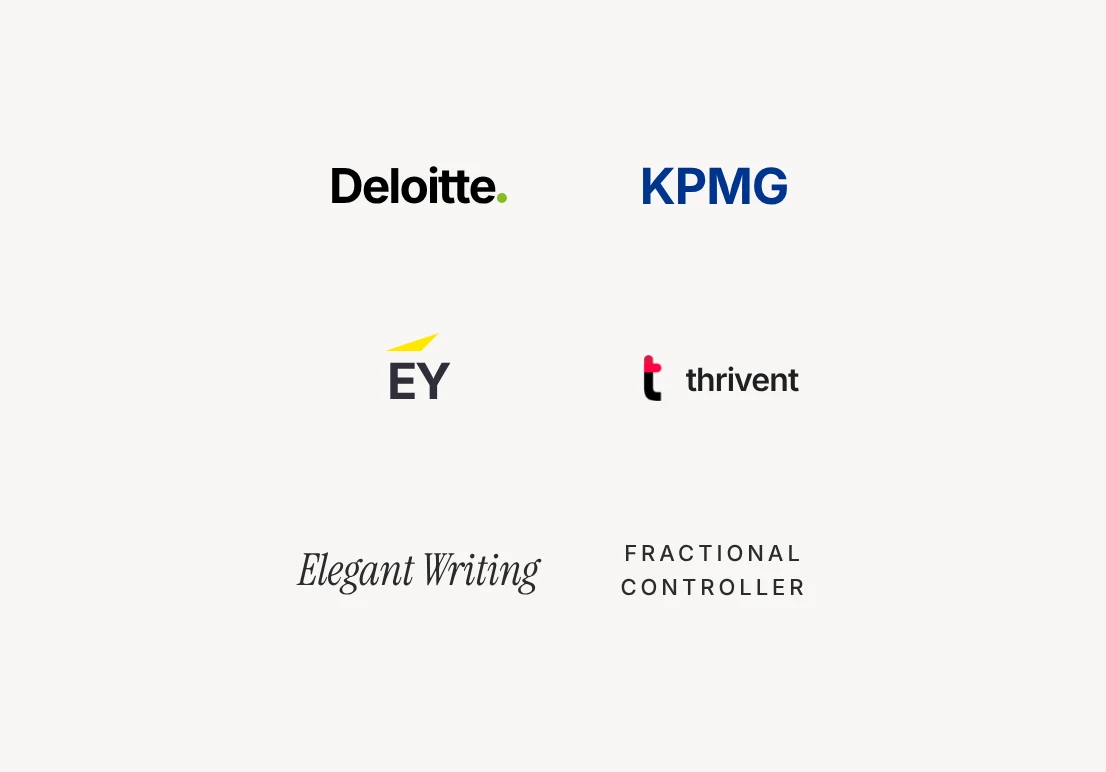
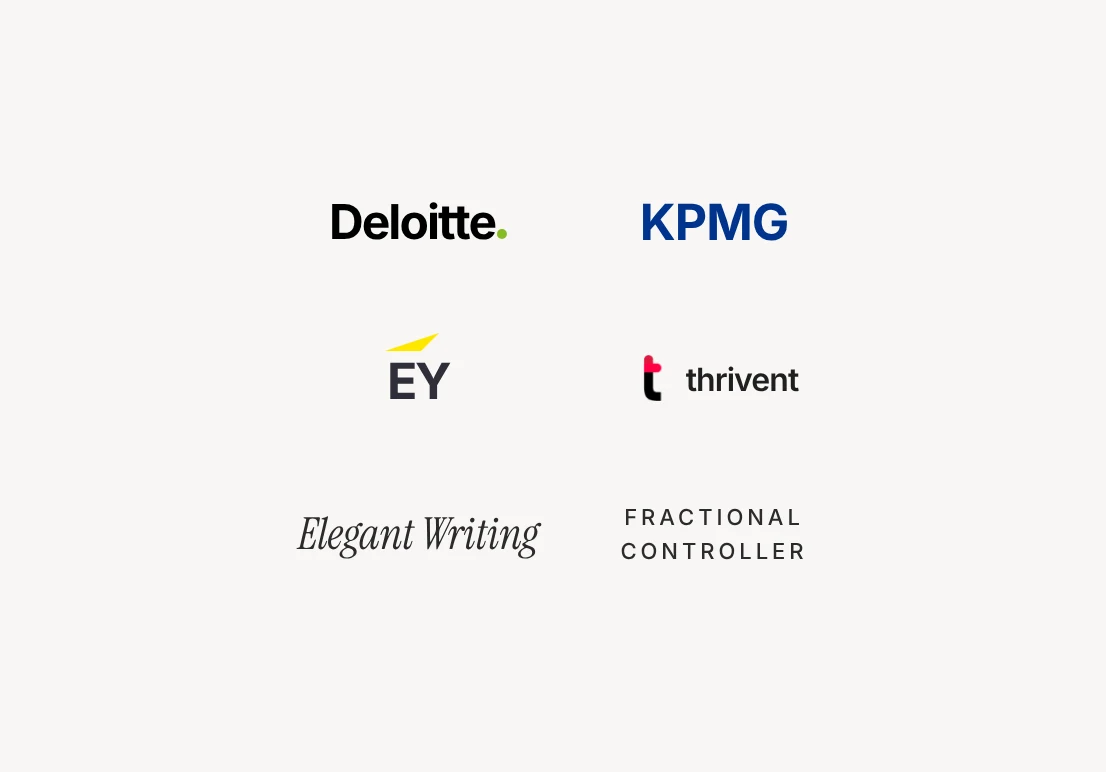
TMU thumbnail row spacing; add changelog
Claude-Session: https://claude.ai/code/session_014NUsqoodJ8qjpRaugw5dhL

diff --git a/CHANGELOG.md b/CHANGELOG.md
@@ -1,0 +1,27 @@
+# Changelog
+
+## 2026-11-13 — Work page update
+
+### Work page
+- Added thumbnails for all four projects (`images/thumb-*.webp`, 1106×772, tile `#f8f6f5`, 20px radius, 553:386 ratio, measured against the reference tiles).
+  - **TMU Business Network:** 2×3 logo grid (Deloitte, KPMG, EY, Thrivent, Elegant Writing, Fractional Controller).
+  - **ModelLab:** logo centered in the tile.
+  - **The Close:** mock sales dashboard (conversion, audience, calls, states, role table; chart labeled "Illustrative trend").
+  - **Fieldnote:** 2×2 mosaic of the brand concept deck slides.
+- Fieldnote card now opens the deck PDF (`files/Fieldnote-Brand-Concept.pdf`) in a new tab.
+- Card labels: "The Close · Sales" and "Fieldnote · Brand Concept".
+- Work order: TMU, ModelLab, The Close, Fieldnote.
+- Added alt text for every thumbnail.
+
+### Fieldnote brand concept deck
+- Rebuilt to measured reference specs (type sizes, hairlines, margins, swatches).
+- All photography remade in an editorial style with the new frosted bottle (text printed on the glass, black cylinder cap).
+
+### Code
+- `tools/build.py`: `WORK_ORDER`, `WORK_CAT`, `EXTERNAL`, `THUMB_ALT`; thumbnails rendered via `<img>`.
+- `css/style.css`: `.card__img` sizing and cover fit.
+- All pages regenerated.
+
+### Known caveats
+- Deloitte, KPMG and EY marks are typeset approximations, not official artwork.
+- Elegant Writing and Fractional Controller marks are placeholder wordmarks.
